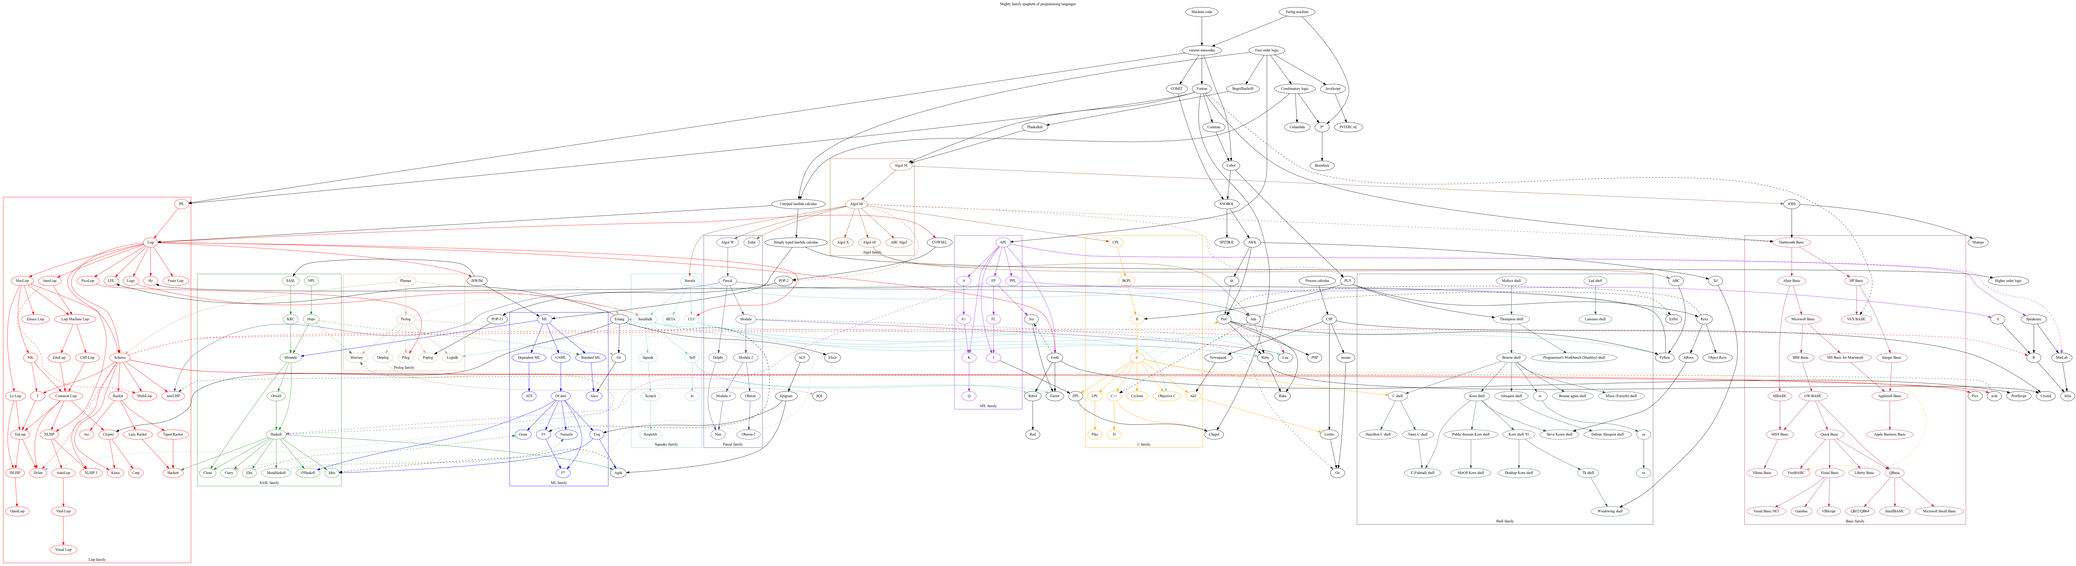
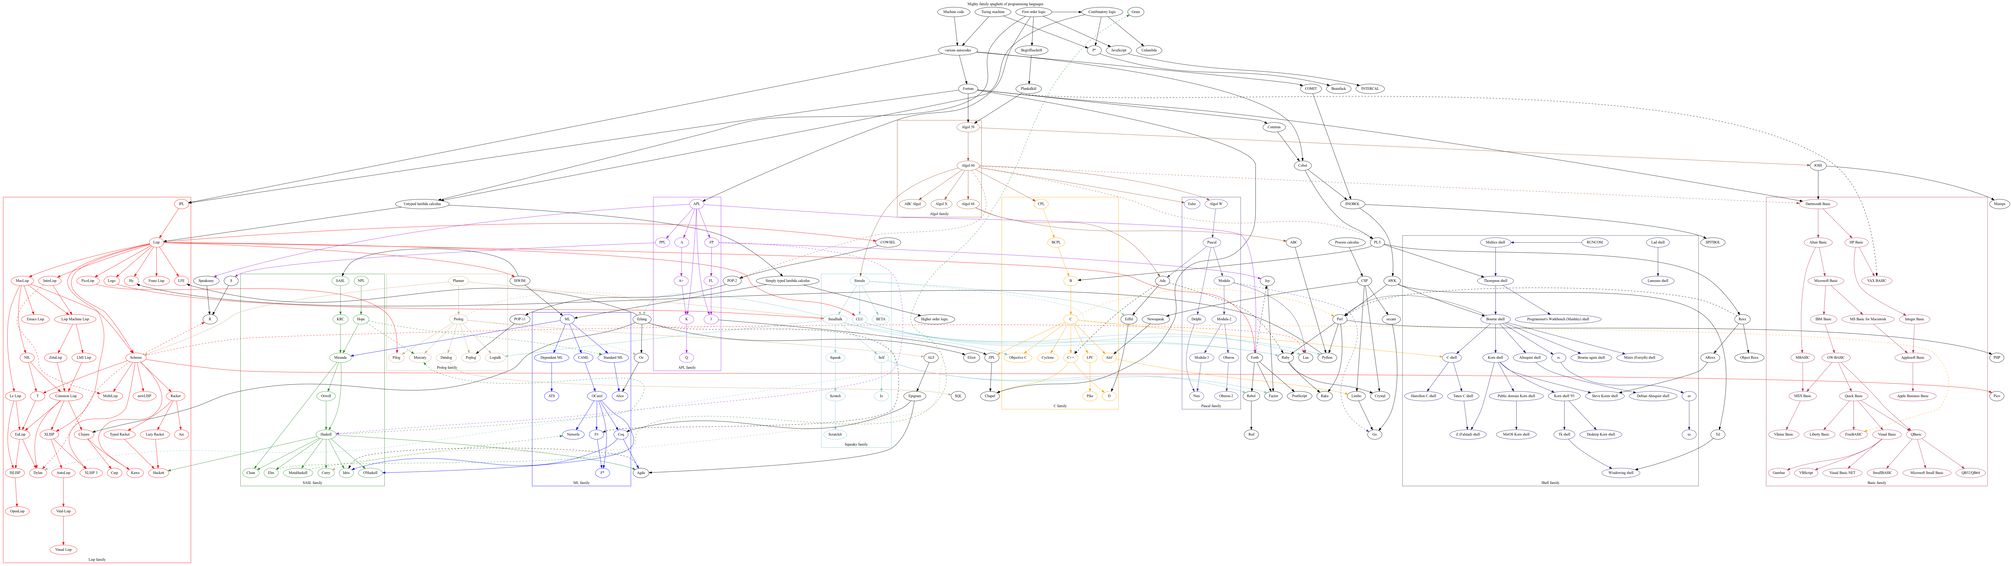
Clean up (hopefully)

diff --git a/blog/190208/spaghetti/index.html b/blog/190208/spaghetti/index.html
@@ -57,6 +57,7 @@
 
       <p>
         This is my attempt at making a family tree of programming languages.
+        (It's technically a directed acyclic graph. :-P)
         Notably absent are certain multiparadigm languages, such as Java.
       </p>
 
